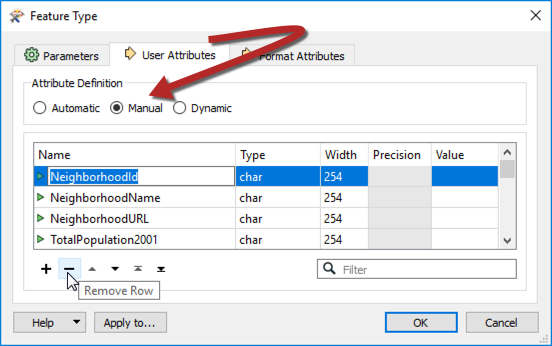
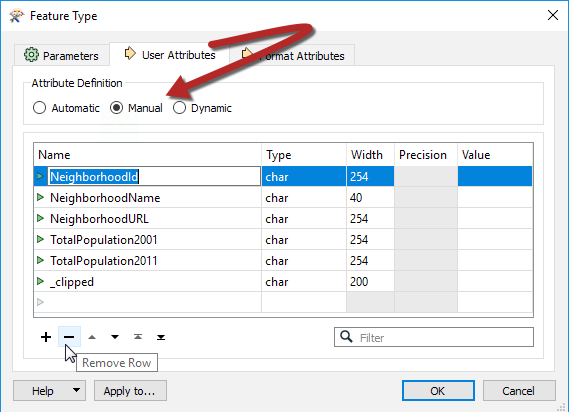
Exercise 3

Changed region(s): [[0.0, 0.0, 1.0, 1.0], [0.8007, 0.6358, 0.8315, 0.6647]]

diff --git a/DesktopAdvanced2WorkspaceDesign/2.Exercise3.md b/DesktopAdvanced2WorkspaceDesign/2.Exercise3.md
@@ -27,7 +27,7 @@ City Orthophoto (GeoTIFF)</td>
 
 <tr>
 <td style="border: 1px solid darkorange; font-weight: bold">Demonstrates</td>
-<td style="border: 1px solid darkorange">Interpreting an FME Log file</td>
+<td style="border: 1px solid darkorange">Increasing workspace efficency and raster processing</td>
 </tr>
 
 <tr>
@@ -43,7 +43,7 @@ C:\FMEData2018\Workspaces\DesktopAdvanced\WorkspaceDesign-Ex2-Logfile.log</td>
 
 </table>
 
-The workspace is almost complete
+Our workspace is almost complete, we just need to remove the black borders that were created when the raster was clipped and then write out the data to GeoTIFF. We should also look at making this workspace more efficent. 
 
 ---
 <br>**1) Open Workspace**
@@ -51,25 +51,50 @@ The workspace is almost complete
 
  
 <br>**2) Remove Extra Feature Types**
-<br>When we added the Neighborhood KML back in the first exercise, we added all of the feature types associated with it, but we only ended up using the Neighborhood one. All these excess feature types can slow down a workspace. If there is data added to the canvas that isn't being used in the translation it should be removed. 
+<br>When we added the Neighborhood KML back in the first exercise, we added all of the feature types associated with it, but we only ended up using the Neighborhood feature type. All these excess feature types can slow down a workspace. If there is data added to the canvas that isn't being used in the translation it should be removed. 
 
-You can manually select all of the excess feature types and remove them or you can bulk remove them. To bulk remove them go to the top menu bar and go to Tools > Remove... > Unattached.. Then select all and click OK:
+You can manually select all of the excess feature types and remove them or you can bulk remove them. To bulk remove them go to the top menu bar and go to Tools > Remove... > Unattached... Then select all and click OK:
 
-<!--Image-->
+![](./Images/Img2.285.Ex3.RemoveUnattachedFeatureTypes.png)
+
+---
+
+<!--Tip Section--> 
+
+<table style="border-spacing: 0px">
+<tr>
+<td style="vertical-align:middle;background-color:darkorange;border: 2px solid darkorange">
+<i class="fa fa-info-circle fa-lg fa-pull-left fa-fw" style="color:white;padding-right: 12px;vertical-align:text-top"></i>
+<span style="color:white;font-size:x-large;font-weight: bold;font-family:serif">TIP</span>
+</td>
+</tr>
+
+<tr>
+<td style="border: 1px solid darkorange">
+<span style="font-family:serif; font-style:italic; font-size:larger">
+You should also remove excess Loggers and Inspectors once you are done developing your workspace. 
+</span>
+</td>
+</tr>
+</table>
+
+---
 
 <br>**3) Remove No Data**
 <br>Now that we have removed all the unused data we can continue with our workspace. 
 
-To remove the no data black borders we will need to use two raster specific transformers, the RasterSelector and the RasterBandNoDataSetter. First add the RasterSelector transformer and connect it to the Inside Output port on the Clipper. This transformer allows you to select specific bands and palletes to manipulate with other transformers. We will select all of the bands and palletes, so just accept the default parameters:
+To remove the no data black borders we will need to use two raster specific transformers, the RasterSelector and the RasterBandNoDataSetter. First, add the RasterSelector transformer and connect it to the Inside Output port on the Clipper. This transformer allows you to select specific bands and palletes to manipulate with other transformers. We will select all of the bands and palletes, so just accept the default parameters:
 
-Next add the RasterBandNoDataSetter transformer to the output port on the RasterSelector. In the parameters set the NoData Value to 0. The RasterBandNoDataSetter will remove no data values on the selected bands and palletes.
+![](./Images/Img2.294.Ex3.RasterSelector.png)
 
-<!--Image-->
+Next, add the RasterBandNoDataSetter transformer to the output port on the RasterSelector. In the parameters set the NoData Value to 0. The RasterBandNoDataSetter will remove no data values on the selected bands and palletes.
+
+![](./Images/Img2.295.Ex3.RasterBandNoDataSetter.png)
 
 <br>**4) Run the Translation**
 <br>Run the translation again and inspect the output from the RasterBandNoDataSetter:
 
-<!--Image-->
+![](./Images/Img2.295.Ex3.NoDataRemovalOutput.png)
 
 The data looks good, all of the black borders are removed and it is split up by neighborhood, time to write it out. 
 
@@ -93,15 +118,72 @@ The data looks good, all of the black borders are removed and it is split up by 
 </tr>
 </table>
 
-Once the GeoTIFF writer is added to the canvas connect it to the Output port on the RasterBandNoDataSetter. Open the writer parameters and set the Raster File Name to the attribute NeighborhoodName. This will fanout our rasters so that each neighborhood will be written out as a seperate GeoTIFF:
+Once the GeoTIFF writer is added to the canvas connect it to the Output port on the RasterBandNoDataSetter. Open the writer parameters and set the Raster File Name to the attribute NeighborhoodName. This will fanout our rasters so that each neighborhood will be written out as a separate GeoTIFF:
 
-<!--image-->
+![](./Images/Img2.295.Ex3.GeoTIFFWriter.png)
 
-While we are in the parameters we should also remove some of the attributes since we don't need to write them all out. Switch the tab to 
+While we are in the parameters we should also remove some of the attributes since we don't need to write them all out. Switch the tab to User Attributes then select Manual for Attribute Definition. Now all the attribute can be edited. Select each row, then click the minus button at the bottom and remove all of the attributes:
 
-<br>**6) Write to GeoTIFF**
-<br>
+![](./Images/Img2.280.Ex3.RemoveAttributesOnGeoTIFF.png)
 
+---
+
+<!--Tip Section--> 
+
+<table style="border-spacing: 0px">
+<tr>
+<td style="vertical-align:middle;background-color:darkorange;border: 2px solid darkorange">
+<i class="fa fa-info-circle fa-lg fa-pull-left fa-fw" style="color:white;padding-right: 12px;vertical-align:text-top"></i>
+<span style="color:white;font-size:x-large;font-weight: bold;font-family:serif">TIP</span>
+</td>
+</tr>
+
+<tr>
+<td style="border: 1px solid darkorange">
+<span style="font-family:serif; font-style:italic; font-size:larger">
+If you know ahead of time that you don't want to write out all of the attributes when adding the writer, you can set the File Definition to None:
+<br><br><img src="./DesktopAdvanced2WorkspaceDesign/./Images/Img2.298.Ex3.RasterFileDefinitionNone.png">
+</span>
+</td>
+</tr>
+</table>
+
+---
+
+<br>**6) Write to Excel**
+<br>Just as we were about to send the rasters off, we were asked to provide an excel spreadsheet to accompany each park file. This is easy to do since already creates this data, we just need to write it out. 
+
+Add an Excel Writer to the canvas:
+
+<table style="border: 0px">
+
+<tr>
+<td style="font-weight: bold">Writer Format</td>
+<td style="">Microsoft Excel</td>
+</tr>
+
+<tr>
+<td style="font-weight: bold">Writer Dataset</td>
+<td style="">C:\FMEData2018\Output\Training\Neighborhoods</td>
+</tr>
+
+<tr>
+<td style="font-weight: bold">File Definition</td>
+<td style="">Automatic</td>
+</tr>
+</table>
+
+
+Once you've added it to the canvas, connect it to the Tester Passed port. Then go into the parameters and set the Sheet Name to NeighbourhoodName:
+
+![](./Images/Img2.299.Ex3.ExcelWriter.png)
+
+Then switch to the User Attributes tab and set the Attribute Definition to Manual. Remove the _overlaps attribute that was created by the PointOnAreaOverlayer, but keep the rest:
+
+![](./Images/Img2.300.Ex3.RemoveOverlaps.png)
+
+<br>**7) Run the translation**
+<br>Finally, run the translation. In the Output\Training folder, there will be a GeoTIFF for each of the neighborhood rasters, as well as an Excel file with each neighborhood on separate sheets. 
 
 
 ---

diff --git a/DesktopAdvanced2WorkspaceDesign/2.Exercise2.md b/DesktopAdvanced2WorkspaceDesign/2.Exercise2.md
@@ -111,14 +111,14 @@ Click ok and run the translation. Check the log to ensure the translation was su
 
 
 <br>**3) Overlay Vectors on Rasters**
-<br>Next we will overlay the park vector polygons on to the orthophoto rasters. To do this we will use a VectorOnRasterOverlayer transformer. Add it to the canvas and connect the Passed Output port from the Tester to the Vector Input Port on the VectorOnRasterOverlayer. Then connect the Orthophoto Feature Type to the Raster Input Port:
+<br>Now that the workspace is reading in the correct dataset, we will overlay the park vector polygons on to the orthophoto rasters. To do this we will use a VectorOnRasterOverlayer transformer. Add it to the canvas and connect the Passed Output port from the Tester to the Vector Input Port on the VectorOnRasterOverlayer. Then connect the Orthophoto Feature Type to the Raster Input Port:
 
 ![](./Images/Img2.267.Ex2.VectorOnRasterOverlayer.png)
 
 <br>**4) Run the Translation**
 <br>Let's run the translation and make sure the parks were overlaid correctly:
 
-![](./Images/Img2.268.Ex2.VectorOnRasterOverlayFail.png)
+![](./Images/Img2.268.Ex2.VectorOnRasterOverlayFailed.png)
 
 Oh, well it looks like all the featured were sent to the Rejected port, but if we look at the translation log it looks like the translation was successful. 
 
@@ -128,7 +128,7 @@ In the Data Inspector, drag your mouse over any section of the raster image to s
 
 ![](./Images/Img2.269.Ex2.DataInspectorRejectionCode.png)
 
-This error is because we can only overlay vectors onto *one* raster so we will need to mosaic the rasters together first
+This error is because we can only overlay vectors onto **one** raster so we will need to mosaic the rasters together first.
 
 <br>**5) Mosaic Rasters**
 <br>Back in FME Workbench, add a RasterMosaicker transformer between the Orthophotos Feature Type and in the Raster Input port on the VectorOnRasterOverlayer. This transformer will mosaic all of the orthophoto rasters into a single raster: 
@@ -138,7 +138,7 @@ This error is because we can only overlay vectors onto *one* raster so we will n
 You can run the translation again to ensure that the VectorOnRasterOverlayer is working correctly if you wish. 
 
 <br>**6) Reproject Neighborhoods**
-<br>Now that the translation is running smoothly again and our results have been confirmed, we can move onto the third branch of our workspace. This third part we will clip the orthophotos to the neighborhood boundary. First, we will need to reproject the neighborhood KML file. 
+<br>Now that the translation is running smoothly again, we will clip the orthophotos to the neighborhood boundary but first, we will need to reproject the neighborhood KML file. 
 
 Add a Reprojector transformer to the canvas and connect it to the Neighborhoods KML Feature Type. In the parameters set the Destination Coordinate System to UTM83-10: 
 
@@ -154,7 +154,7 @@ In the Clip orthophoto to neighborhoods bookmark, we added in the last exercise,
 
 ![](./Images/Img2.291.Ex2.ClipOrthophotos.png)
 
-In the parameters, enable Merge Attributes. This will add all the attribute from the Neighbourhoods KML to our raster.  
+In the parameters, enable Merge Attributes. This will add all the attributes from the Neighbourhoods KML to our raster:  
 
 ![](./Images/Img2.292.Ex2.ClipperParameters.png)
 
